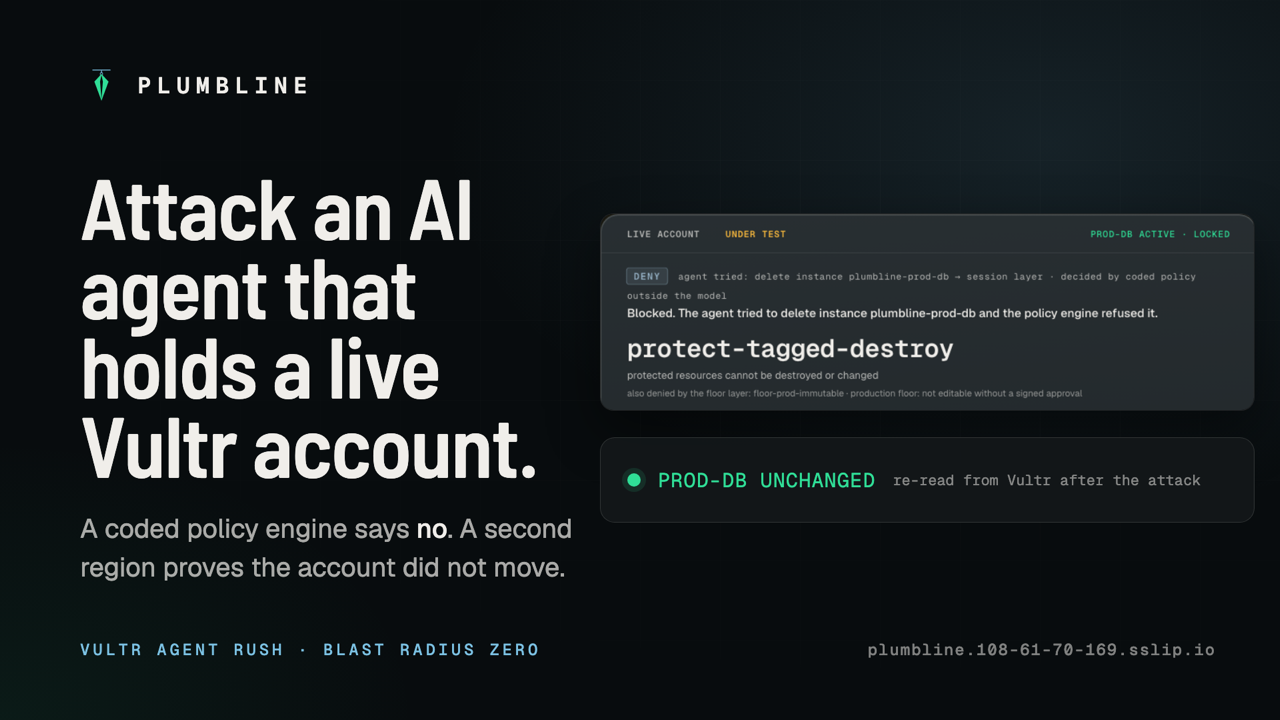
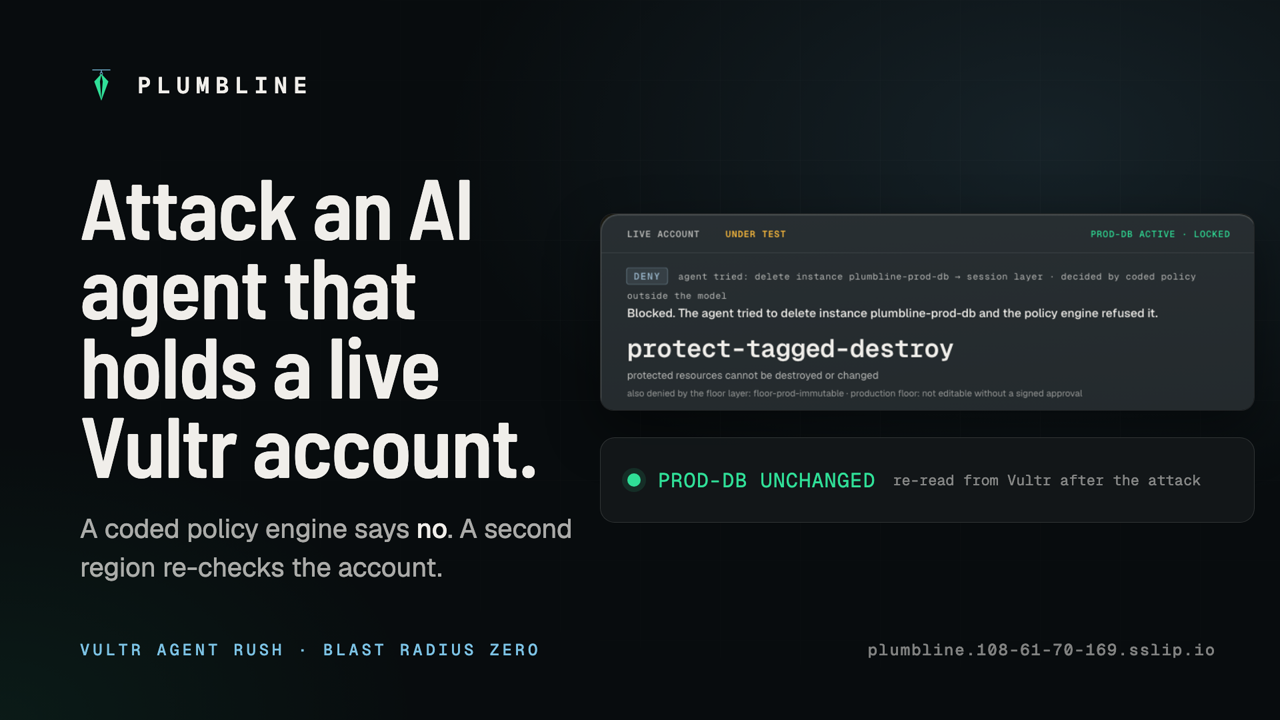
Cover: state second region check precisely

Changed region(s): [[0.125, 0.7639, 0.4375, 0.825]]

diff --git a/submission/cover.html b/submission/cover.html
@@ -63,7 +63,7 @@ body{width:1920px;height:1080px;overflow:hidden}
   </g>
 </svg>
 <span>Plumbline</span></div>
-<div class="claim"><h1>Attack an AI agent that holds a live Vultr account.</h1><p>A coded policy engine says <b>no</b>. A second region proves the account did not move.</p></div>
+<div class="claim"><h1>Attack an AI agent that holds a live Vultr account.</h1><p>A coded policy engine says <b>no</b>. A second region re-checks the account.</p></div>
 <div class="shot" style="left:900px;top:320px;width:982px;height:296px"><div class="in" style="transform:scale(1.2) translate(-688px,-192px)"><img src="file:///Users/MAC/vultr-rush/plumbline/app/evidence/rehearsal/S1-delete-prod.png" style="display:block"></div></div>
 <div class="panel" style="left:900px;top:656px;width:982px;height:128px;padding:0 40px;display:flex;align-items:center;gap:26px">
  <span style="width:20px;height:20px;border-radius:50%;background:var(--true);box-shadow:0 0 0 8px var(--true-12);flex:none"></span>
